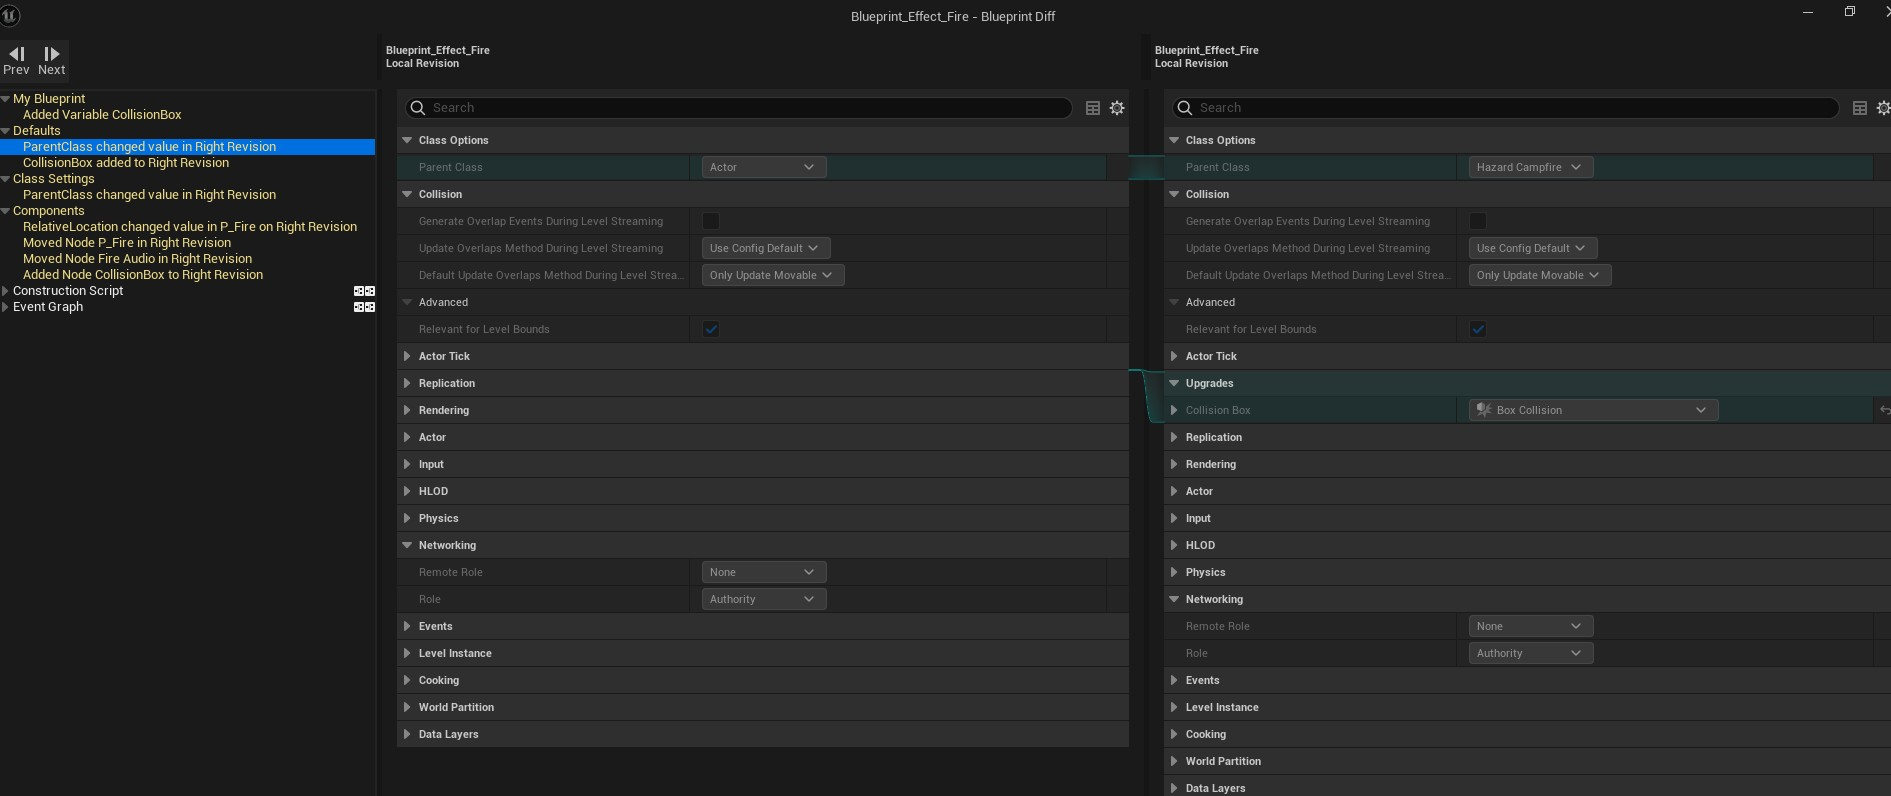
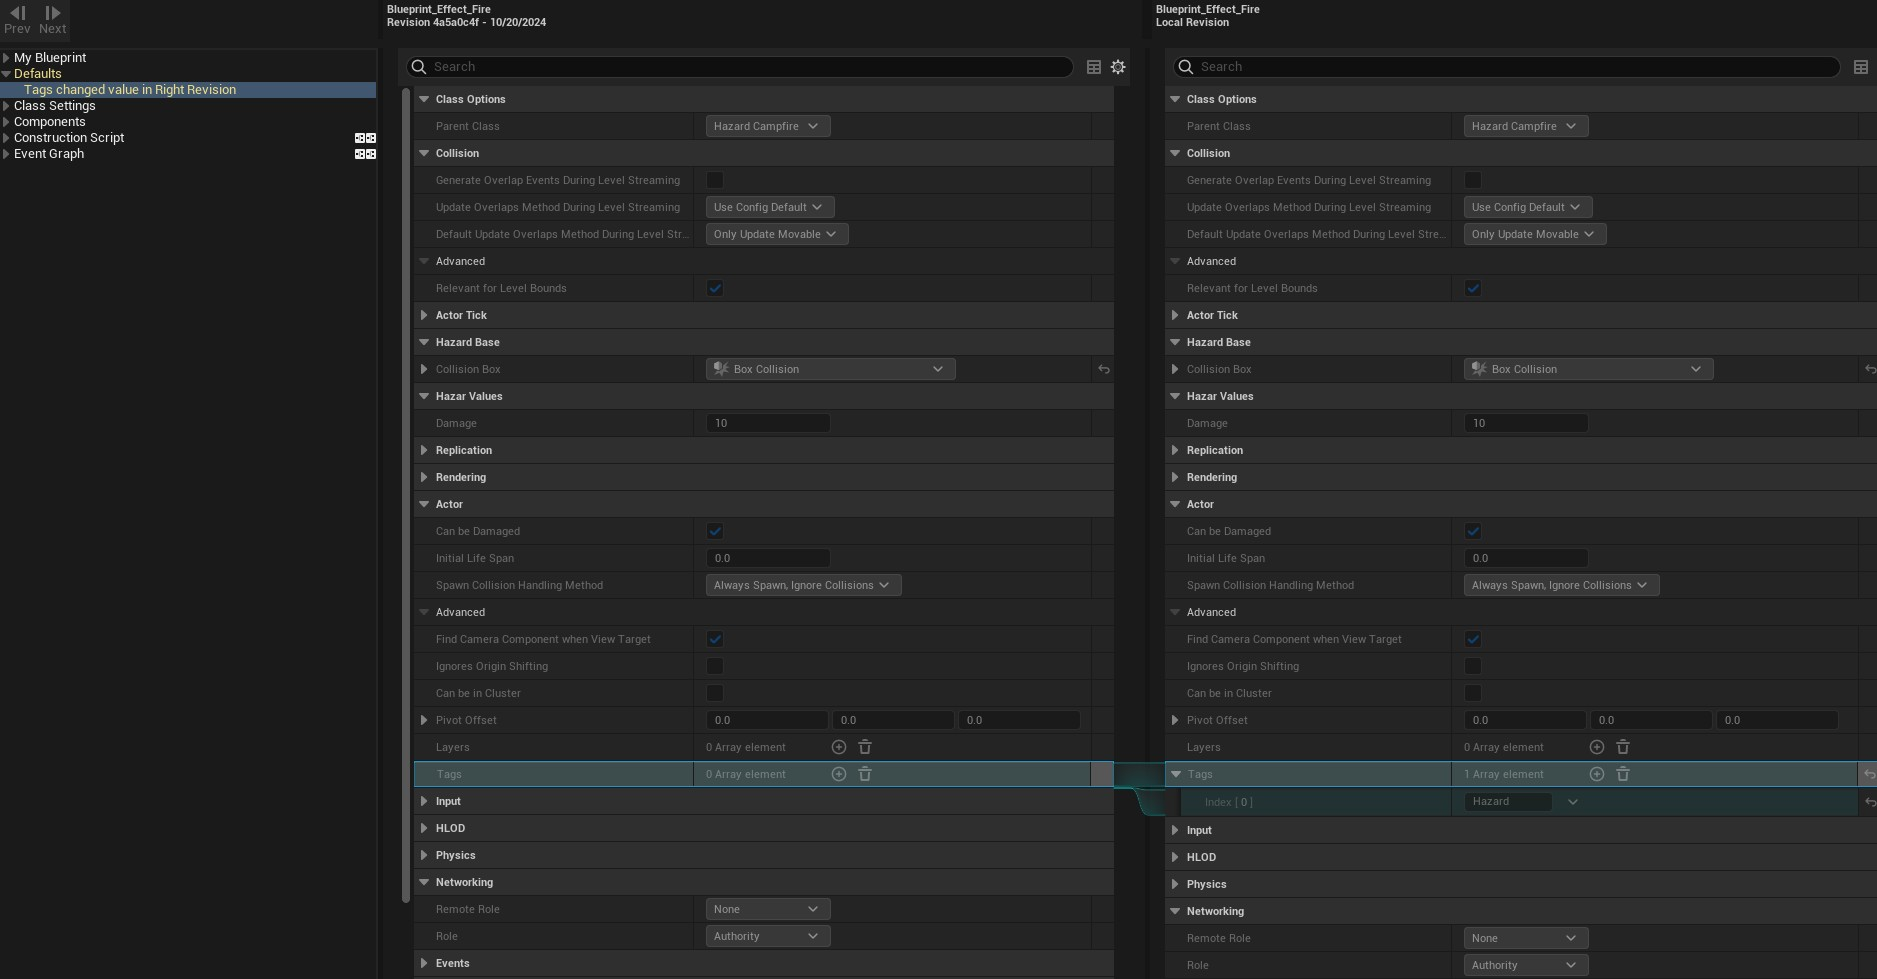
[Add] Take damage on touching hazard ( campfire placeholder)

diff --git a/GameJamPlus2024/Source/GameJamPlus2024/Private/PaperCharacterBase.cpp b/GameJamPlus2024/Source/GameJamPlus2024/Private/PaperCharacterBase.cpp
@@ -8,6 +8,7 @@
 #include "EventsManager.h"
 #include "PaperFlipbookComponent.h"
 #include "GameJamPlus2024/GameJamPlus2024Character.h"
+#include "Hazards/HazardBase.h"
 
 APaperCharacterBase::APaperCharacterBase()
 {
@@ -125,4 +126,17 @@ void APaperCharacterBase::TakeDamage(int Damage)
 void APaperCharacterBase::BeginPlay()
 {
 	Super::BeginPlay();
+	OnActorBeginOverlap.AddDynamic(this, &APaperCharacterBase::OnBeginOverlap);
+}
+
+void APaperCharacterBase::OnBeginOverlap(AActor* OverlappedActor, AActor* OtherActor)
+{
+	if (OtherActor && OtherActor != this) // Ensure it's a valid actor and not self
+	{
+		AHazardBase* Hazard = Cast<AHazardBase>(OtherActor);
+		if(Hazard != nullptr)
+		{
+			TakeDamage(Hazard->Damage);
+		}
+	}
 }

diff --git a/GameJamPlus2024/Source/GameJamPlus2024/Public/Hazards/HazardBase.h b/GameJamPlus2024/Source/GameJamPlus2024/Public/Hazards/HazardBase.h
@@ -20,7 +20,7 @@ protected:
 	// Called when the game starts or when spawned
 	virtual void BeginPlay() override;
 
-	UPROPERTY(EditAnywhere, BlueprintReadWrite, Category = "Upgrades", meta = (AllowPrivate))
+	UPROPERTY(EditAnywhere, BlueprintReadWrite, meta = (AllowPrivate))
 	UBoxComponent* CollisionBox;
 
 
@@ -28,4 +28,6 @@ public:
 	// Called every frame
 	virtual void Tick(float DeltaTime) override;
 
+	UPROPERTY(EditAnywhere, BlueprintReadWrite, Category = "HazardValues", meta = (AllowPrivate))
+	int Damage = 10;
 };

diff --git a/GameJamPlus2024/Source/GameJamPlus2024/Public/PaperCharacterBase.h b/GameJamPlus2024/Source/GameJamPlus2024/Public/PaperCharacterBase.h
@@ -57,4 +57,8 @@ protected:
 	
 	// To add mapping context
 	virtual void BeginPlay() override;
+private:
+	
+	UFUNCTION()
+	void OnBeginOverlap(AActor* OverlappedActor, AActor* OtherActor);
 };
